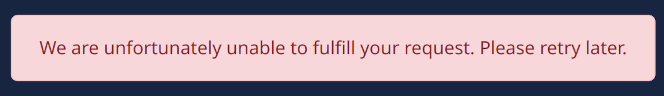
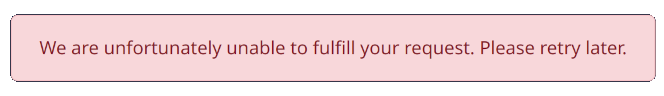
Remove dark background from README images

diff --git a/ChangeLog.md b/ChangeLog.md
@@ -2,6 +2,7 @@
 
 | Version | Release    | Content |
 | ---:    | :---       | :---    |
+| 1.1.3   | 2023- 5- 1 | Remove dark background from README images |
 | 1.1.2   | 2023- 4-30 | Add images to README |
 | 1.1.1   | 2023- 1-31 | Fix Meteor packaging |
 | 1.1.0   | 2023- 1-31 | Replace hardcoded NPM dependencies with tmeasday:check-npm-versions (runtime, development environment only) |
@@ -9,4 +10,4 @@
 
 ---
 P. Wieser
-- Last updated on 2023, Apr. 30th
+- Last updated on 2023, May 1st
